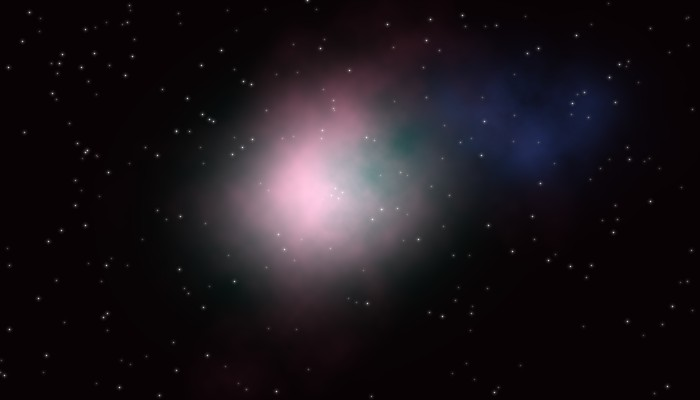
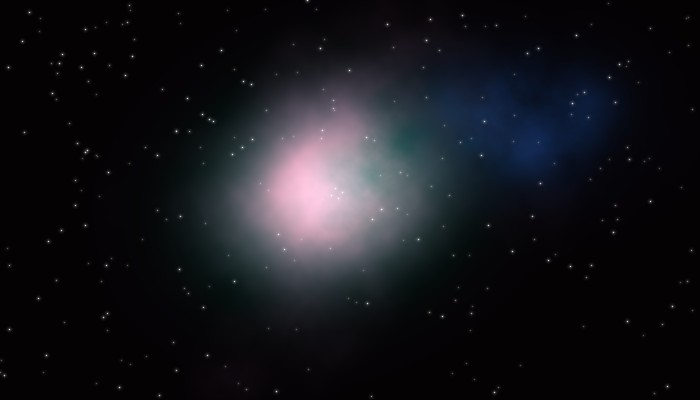
Master tabs v2: blend save/share actions, distinct Ha/OIII colors, consistent rig counts, stronger blend preview, docked nav bar, chip peek scrolling, caption follows tab, FILTER in monospace

Changed region(s): [[0.39, 0.18, 0.54, 0.3]]

diff --git a/master.html b/master.html
@@ -46,13 +46,14 @@ h1{font-size:28px;line-height:34px;font-weight:700;margin:2px 0 10px}
 .empty-card{height:210px;border:1px dashed #33404D;border-radius:16px;display:flex;flex-direction:column;align-items:center;justify-content:center;text-align:center;padding:20px 24px;gap:8px}
 .empty-card svg{width:40px;height:40px;color:#33404D}
 .empty-card h2{font-size:19px;line-height:24px}
+code{font:600 14px ui-monospace,SFMono-Regular,Menlo,Consolas,monospace;color:#E8EEF4;background:#13283A;border:1px solid #1C2B3A;border-radius:6px;padding:1px 6px;white-space:nowrap}
 .btns{display:flex;gap:10px;margin-top:14px}
 .primary{height:56px;border-radius:28px;background:#E8A05A;color:#1A1006;font:700 17px Inter,-apple-system,sans-serif;display:flex;align-items:center;justify-content:center;border:0;cursor:pointer;flex:1}
 .ghostb{height:56px;border-radius:28px;background:transparent;border:1px solid #1C2B3A;color:#5CC9B5;font:600 17px Inter,-apple-system,sans-serif;cursor:pointer;padding:0 18px}
 .seg{display:flex;background:#0B141E;border:1px solid #1C2B3A;border-radius:14px;padding:4px;margin-top:8px}
-.seg button{flex:1;height:48px;border:0;border-radius:10px;font:600 16px Inter,-apple-system,sans-serif;color:#8FA3B5;background:transparent;cursor:pointer}
+.seg button{flex:1 1 0;min-width:0;padding:0 6px;white-space:nowrap;height:48px;border:0;border-radius:10px;font:600 16px Inter,-apple-system,sans-serif;color:#8FA3B5;background:transparent;cursor:pointer}
 .seg button.on{background:#E8A05A;color:#1A1006}
-.cmp{position:relative;height:200px;border-radius:16px;overflow:hidden;margin-top:10px;background:#000;touch-action:none;cursor:ew-resize;box-shadow:0 0 28px rgba(200,110,150,.16)}
+.cmp{position:relative;height:178px;border-radius:16px;overflow:hidden;margin-top:10px;background:#000;touch-action:none;cursor:ew-resize;box-shadow:0 0 28px rgba(200,110,150,.16)}
 .cmp canvas{position:absolute;inset:0;width:100%;height:100%}
 .cmp .lbl{position:absolute;top:10px;font-size:12px;font-weight:700;background:rgba(7,16,24,.72);padding:3px 9px;border-radius:999px;pointer-events:none}
 .cmp .lbl.l{left:10px}.cmp .lbl.r{right:10px}
@@ -62,13 +63,13 @@ h1{font-size:28px;line-height:34px;font-weight:700;margin:2px 0 10px}
 .lblrow{display:flex;justify-content:space-between;align-items:baseline;margin-top:12px}
 .lbt{font-size:13px;color:#8FA3B5;font-weight:700;letter-spacing:.6px;text-transform:uppercase}
 .val{font-size:17px;font-weight:700;color:#E8A05A}
-input[type=range]{-webkit-appearance:none;appearance:none;width:100%;height:44px;background:transparent;margin-top:2px;cursor:pointer}
+input[type=range]{-webkit-appearance:none;appearance:none;width:100%;height:40px;background:transparent;margin-top:0;cursor:pointer}
 input[type=range]::-webkit-slider-runnable-track{height:8px;border-radius:4px;background:linear-gradient(90deg,#E8A05A var(--p,50%),#1C2B3A var(--p,50%))}
 input[type=range]::-webkit-slider-thumb{-webkit-appearance:none;width:32px;height:32px;border-radius:50%;background:#E8EEF4;border:3px solid #E8A05A;margin-top:-12px;box-shadow:0 2px 6px rgba(0,0,0,.5)}
 input[type=range]::-moz-range-track{height:8px;border-radius:4px;background:#1C2B3A}
 input[type=range]::-moz-range-progress{height:8px;border-radius:4px;background:#E8A05A}
 input[type=range]::-moz-range-thumb{width:26px;height:26px;border-radius:50%;background:#E8EEF4;border:3px solid #E8A05A}
-.hint{margin-top:8px;font-size:13px;color:#8FA3B5;line-height:18px;min-height:36px}
+.hint{margin-top:8px;font-size:13px;color:#8FA3B5;line-height:18px}
 .spacer{flex:1 1 auto}
 .tabs{height:83px;margin:0 -20px;border-top:1px solid #1C2B3A;display:flex;justify-content:space-around;padding-top:8px;background:#09131C}
 .tab{display:flex;flex-direction:column;align-items:center;gap:4px;font-size:12px;color:#8FA3B5;width:96px;height:60px;padding-top:4px}
@@ -79,7 +80,7 @@ input[type=range]::-moz-range-thumb{width:26px;height:26px;border-radius:50%;bac
 </style></head>
 <body><div class="ph" id="ph">
 <div class="sb"><span>9:58</span><span>●●● ▮</span></div>
-<div class="top"><span class="back">‹ Live stack</span><span class="tr"><span class="stepn">Master</span><span class="menu" aria-label="Party menu">•••</span></span></div>
+<div class="top"><span class="back">‹ Live stack</span><span class="tr"><span class="menu" aria-label="Party menu">•••</span></span></div>
 <div class="party">Penobscot Bay Star Party</div>
 <h1>Master · M42</h1>
 <div class="strip" id="strip" role="tablist" aria-label="Master filters"></div>
@@ -109,7 +110,7 @@ input[type=range]::-moz-range-thumb{width:26px;height:26px;border-radius:50%;bac
     <div class="stat"><b>0m</b><span>INTEGRATION</span></div>
     <div class="stat"><b>0</b><span>RIGS</span></div>
   </div>
-  <p class="small note">Subs are grouped by the FILTER card in their FITS header. One-shot-color subs go to Color.</p>
+  <p class="small note">Subs are grouped by the <code>FILTER</code> card in their FITS header. One-shot-color subs go to Color.</p>
 </div>
 
 <!-- blend -->
@@ -123,27 +124,28 @@ input[type=range]::-moz-range-thumb{width:26px;height:26px;border-radius:50%;bac
     <span class="lbl l">Before</span><span class="lbl r">After</span><span class="sample">Sample data</span>
     <span class="div" id="div"></span><span class="knob" id="knob">‹›</span>
   </div>
-  <div class="lblrow"><span class="lbt">Strength</span><span class="val" id="sv">50%</span></div>
+  <div class="lblrow" style="margin-top:10px"><span class="lbt">Strength</span><span class="val" id="sv">50%</span></div>
   <input type="range" id="str" min="0" max="100" step="1" value="50" aria-label="Blend strength">
   <div class="lblrow" style="margin-top:2px"><span class="lbt">Blend mode</span><span class="small" id="base">Into the Color master</span></div>
   <div class="seg" id="modes"></div>
   <p class="hint" id="hint"></p>
+  <div class="btns"><button class="primary" id="save" type="button">Save as HaRGB</button><button class="ghostb" id="share2" type="button">Share</button></div>
 </div>
 
 <div class="spacer"></div>
 <div class="tabs"><div class="tab on"><svg viewBox="0 0 24 24" fill="none" stroke="currentColor" stroke-width="2" stroke-linecap="round" stroke-linejoin="round"><path d="M20 14.5A8 8 0 1 1 9.5 4a6.5 6.5 0 0 0 10.5 10.5z"/><path d="M18 2.5v4M16 4.5h4"/></svg>Tonight</div><div class="tab"><svg viewBox="0 0 24 24" fill="none" stroke="currentColor" stroke-width="2" stroke-linecap="round" stroke-linejoin="round"><path d="M3.5 13.5 16 7l2.2 4.2-12.5 6.5z"/><path d="M18.2 6l1.6-.8 1.4 2.7-1.6.8"/><path d="M11 15.6 8 21.5M12.6 14.8 16 21.5"/></svg>Gear</div><div class="tab"><svg viewBox="0 0 24 24" fill="none" stroke="currentColor" stroke-width="2" stroke-linecap="round" stroke-linejoin="round"><circle cx="12" cy="8" r="4"/><path d="M4 21c0-4.2 3.6-7 8-7s8 2.8 8 7"/></svg>Profile</div></div>
-<div class="toast" id="toast">Prototype · nothing is saved or downloaded</div>
+<div class="toast" id="toast">Prototype · saves a new FITS; nothing is saved here</div>
 </div>
 <script>
 // Mock data for the prototype. Real counts come from the party stack (GET /api/stacks/{id}/masters).
 const TABS = [
-  {k:"color", label:"Color", accent:"#E8A05A", subs:15, sec:2700, rigs:["JB","AD","BA","CY"], note:"One-shot-color subs (ASI2600MC and friends), debayered and stacked. Linear 32-bit FITS on the shared grid."},
-  {k:"L", label:"L", accent:"#E8EEF4", subs:24, sec:4320, rigs:["DM"], note:"Mono subs shot through L (luminance). Grouped by FILTER = L / Lum."},
+  {k:"color", label:"Color", accent:"#E8A05A", subs:15, sec:2700, rigs:["JB","AD","BA","CY","DM","EL"], note:"The same master as Live stack (6 rigs · 15 subs): one-shot-color subs, debayered and stacked. Mono filters have their own tabs."},
+  {k:"L", label:"L", accent:"#E8EEF4", subs:24, sec:4320, rigs:["DM"], note:"Mono subs shot through L (luminance) on Dana's second rig. Grouped by FILTER = L / Lum."},
   {k:"R", label:"R", accent:"#F2555A", subs:10, sec:1800, rigs:["DM"], note:"Mono subs shot through the red filter."},
-  {k:"G", label:"G", accent:"#5CC9B5", subs:10, sec:1800, rigs:["DM"], note:"Mono subs shot through the green filter."},
-  {k:"B", label:"B", accent:"#7FB8FF", subs:9, sec:1620, rigs:["DM"], note:"Mono subs shot through the blue filter."},
-  {k:"Ha", label:"Ha", accent:"#FF6B6B", subs:12, sec:3600, rigs:["AD","EL"], note:"Mono subs shot through Ha (7 nm and 3 nm). Picks up the faint outer hydrogen the color subs miss."},
-  {k:"OIII", label:"OIII", accent:"#4FD1E0", subs:8, sec:2400, rigs:["EL"], note:"Mono subs shot through OIII. Brightest in the core."},
+  {k:"G", label:"G", accent:"#62C46B", subs:10, sec:1800, rigs:["DM"], note:"Mono subs shot through the green filter."},
+  {k:"B", label:"B", accent:"#6C7CFF", subs:9, sec:1620, rigs:["DM"], note:"Mono subs shot through the blue filter."},
+  {k:"Ha", label:"Ha", accent:"#D21F6E", subs:12, sec:3600, rigs:["AD","EL"], note:"Mono subs shot through Ha (7 nm and 3 nm). Picks up the faint outer hydrogen the color subs miss."},
+  {k:"OIII", label:"OIII", accent:"#1FC8F0", subs:8, sec:2400, rigs:["EL"], note:"Mono subs shot through OIII. Brightest in the core."},
   {k:"SII", label:"SII", accent:"#F0B85A", subs:0, sec:0, rigs:[], note:""},
 ];
 const MODES = {
@@ -151,7 +153,7 @@ const MODES = {
      {k:"max",label:"Max",hint:"Max keeps whichever is brighter, red or Ha. Strongest nebula, can look punchy."},
      {k:"add",label:"Add",hint:"Add puts strength × Ha signal on top of red (sky removed first). Like R + k·Ha in PixelMath."}],
   L:[{k:"lighten",label:"Lighten",hint:"Lighten keeps the brighter of luminance and Ha. Color stays the same; detail comes from Ha."},
-     {k:"add",label:"Weighted add",hint:"Weighted add puts strength × Ha signal into luminance (sky removed first). Hue is kept."},
+     {k:"add",label:"Weighted",hint:"Weighted add puts strength × Ha signal into luminance (sky removed first). Hue is kept."},
      {k:"screen",label:"Screen",hint:"Screen lifts luminance softly where Ha is bright and never clips."}],
 };
 const $ = (id) => document.getElementById(id);
@@ -171,7 +173,8 @@ function show(k, user) {
   [...strip.children].forEach((c) => {
     const on = c.dataset.k === k; c.classList.toggle("on", on); c.setAttribute("aria-selected", on);
     if (on) { // keep the active chip in view without scrolling the page
-      const l = c.offsetLeft - 20, r = c.offsetLeft + c.offsetWidth + 20 - strip.clientWidth;
+      const PEEK = 44; // keep a peek of the neighbouring chips
+      const l = c.offsetLeft - PEEK, r = c.offsetLeft + c.offsetWidth + PEEK - strip.clientWidth;
       const want = strip.scrollLeft > l ? l : (strip.scrollLeft < r ? r : strip.scrollLeft);
       strip.scrollTo({ left: Math.max(0, want), behavior: user ? "smooth" : "auto" });
     }
@@ -190,11 +193,28 @@ function show(k, user) {
     $("dl").textContent = `Download ${t.label} FITS`;
   } else if (t) {
     $("eTitle").textContent = `No subs yet for ${t.label}`;
-    $("eBody").textContent = `Nobody at this party has shot ${t.label} yet. Mono subs with FILTER = ${t.label} will stack here.`;
+    $("eBody").innerHTML = `Nobody at this party has shot ${t.label} yet. Mono subs with <code>FILTER = ${t.label}</code> will stack here.`;
   }
   if (k === "blend") renderBlend();
-  history.replaceState(null, "", "#tab=" + k + (k === "blend" ? "&target=" + state.target : ""));
+  syncHash(k);
+  notify(k);
 }
+function syncHash(k) {
+  history.replaceState(null, "", "#tab=" + k + (k === "blend" ? `&target=${state.target}&mode=${state.mode}&strength=${state.strength}` : ""));
+}
+function notify(k) {
+  if (window.parent === window) return;
+  const t = TABS.find((x) => x.k === k);
+  window.parent.postMessage({ type: "st-master-tab", tab: k, target: state.target,
+    label: k === "blend" ? (state.target === "R" ? "Blend · Ha to Red" : "Blend · Ha to Lum") : `Master tabs · ${t.label}`,
+    caption: k === "blend" ? CAPS.blend[state.target] : (t.subs ? CAPS.chan(t) : CAPS.empty(t)) }, "*");
+}
+const CAPS = {
+  chan: (t) => `${t.label === "Color" ? "Color master (the same one Live stack shows)" : t.label + " master from the mono rigs"}: ${t.subs} subs, ${fmt(t.sec)} of integration, ${t.rigs.length} ${t.rigs.length === 1 ? "rig" : "rigs"}. Subs are grouped by the FITS FILTER header; one-shot-color subs go to Color. Sample data.`,
+  empty: (t) => `Nobody has shot ${t.label} yet, so the tab shows an empty state. Empty filter chips are dashed so they read at a glance.`,
+  blend: { R: "Blend Ha into the red channel of the Color master. Set the strength (0–100%), pick Screen, Max or Add, drag across the preview to compare, then save it as a new HaRGB FITS. Sample data.",
+           L: "Blend Ha into luminance with Lighten, Weighted add or Screen. Hue is kept; only brightness and detail come from Ha. The masters are never changed; the blend is saved as its own FITS. Sample data." },
+};
 // ---------------------------------------------------------------- blend (mock data, canvas)
 const state = { target: "R", mode: "screen", strength: 50, split: 0.5 };
 const imgs = {};
@@ -221,10 +241,11 @@ function renderBlend() {
   updateControls();
   if (!pix) { prep().then(renderBlend); return; }
   const { c, h, medR, medHa } = pix, s = state.strength / 100;
+  const HA_GAIN = 2.0; // sample data: the Ha master is stretched harder than the OSC, like a real Ha master
   const out = ctx.createImageData(700, 400), o = out.data;
   const medLum = (medR + median(c, 4, 1) + median(c, 4, 2)) / 3;
   for (let i = 0; i < c.length; i += 4) {
-    const r = c[i]/255, g = c[i+1]/255, b = c[i+2]/255, ha = h[i]/255;
+    const r = c[i]/255, g = c[i+1]/255, b = c[i+2]/255, ha = medHa + Math.max(0, h[i]/255 - medHa) * HA_GAIN;
     let R = r, G = g, B = b;
     if (state.target === "R") R = mix(r, ha, s, state.mode, medR, medHa);
     else {
@@ -250,28 +271,35 @@ function updateControls() {
   const modes = $("modes"); modes.innerHTML = "";
   MODES[state.target].forEach((m) => {
     const b = document.createElement("button"); b.type = "button"; b.textContent = m.label; b.className = m.k === state.mode ? "on" : "";
-    b.onclick = () => { state.mode = m.k; renderBlend(); }; modes.appendChild(b);
+    b.onclick = () => { state.mode = m.k; renderBlend(); syncHash("blend"); }; modes.appendChild(b);
   });
   $("hint").textContent = MODES[state.target].find((m) => m.k === state.mode).hint;
   $("base").textContent = state.target === "R" ? "Into red of the Color master" : "Into luminance of the Color master";
+  $("save").textContent = state.target === "R" ? "Save as HaRGB" : "Save as Ha-L RGB";
   $("sv").textContent = state.strength + "%";
   $("str").value = state.strength; $("str").style.setProperty("--p", state.strength + "%");
 }
-document.querySelectorAll("[data-target]").forEach((b) => b.onclick = () => { state.target = b.dataset.target; state.mode = MODES[state.target][0].k; renderBlend(); history.replaceState(null, "", "#tab=blend&target=" + state.target); });
+document.querySelectorAll("[data-target]").forEach((b) => b.onclick = () => { state.target = b.dataset.target; state.mode = MODES[state.target][0].k; renderBlend(); syncHash("blend"); notify("blend"); });
 let raf = 0;
 $("str").addEventListener("input", (e) => { state.strength = Number(e.target.value); $("sv").textContent = state.strength + "%"; e.target.style.setProperty("--p", state.strength + "%"); cancelAnimationFrame(raf); raf = requestAnimationFrame(renderBlend); });
+$("str").addEventListener("change", () => syncHash("blend"));
 const cmp = $("cmp");
 function drag(e) { const r = cmp.getBoundingClientRect(); state.split = Math.min(1, Math.max(0, (e.clientX - r.left) / r.width)); draw(); }
 cmp.addEventListener("pointerdown", (e) => { cmp.setPointerCapture(e.pointerId); drag(e); });
 cmp.addEventListener("pointermove", (e) => { if (cmp.hasPointerCapture(e.pointerId)) drag(e); });
 function toast() { const t = $("toast"); t.classList.add("show"); clearTimeout(toast.t); toast.t = setTimeout(() => t.classList.remove("show"), 1600); }
-$("dl").onclick = toast; $("share").onclick = toast;
+$("dl").onclick = toast; $("share").onclick = toast; $("save").onclick = toast; $("share2").onclick = toast;
 // deep links: #tab=Ha, #tab=blend&target=L&mode=add&strength=70
-const q = new URLSearchParams(location.hash.slice(1));
-if (q.get("target") === "L") { state.target = "L"; state.mode = "lighten"; }
-if (q.get("mode") && MODES[state.target].some((m) => m.k === q.get("mode"))) state.mode = q.get("mode");
-if (q.get("strength")) state.strength = Math.min(100, Math.max(0, Number(q.get("strength")) || 0));
-const start = q.get("tab");
-show([...TABS.map((t) => t.k), "blend"].includes(start) ? start : "color", false);
+function fromHash() {
+  const q = new URLSearchParams(location.hash.slice(1));
+  state.target = q.get("target") === "L" ? "L" : "R";
+  state.mode = MODES[state.target][0].k;
+  if (q.get("mode") && MODES[state.target].some((m) => m.k === q.get("mode"))) state.mode = q.get("mode");
+  state.strength = q.get("strength") ? Math.min(100, Math.max(0, Number(q.get("strength")) || 0)) : 50;
+  const start = q.get("tab");
+  show([...TABS.map((t) => t.k), "blend"].includes(start) ? start : "color", false);
+}
+window.addEventListener("hashchange", fromHash);
+fromHash();
 </script>
 </body></html>

diff --git a/index.html b/index.html
@@ -26,7 +26,7 @@
       font-family: -apple-system, BlinkMacSystemFont, "Segoe UI", sans-serif;
     }
     body {
-      padding: 16px 16px 108px;
+      padding: 16px 16px 32px;
       max-width: 480px;
       margin: 0 auto;
     }
@@ -106,13 +106,8 @@
       font-size: 1rem;
     }
     .bar {
-      position: fixed;
-      left: 0;
-      right: 0;
-      bottom: 0;
-      padding: 12px 16px calc(12px + env(safe-area-inset-bottom));
-      background: rgba(11,16,32,0.96);
-      border-top: 1px solid var(--line);
+      max-width: 390px;
+      margin: 0 auto 16px;
       display: flex;
       gap: 10px;
       flex-wrap: wrap;
@@ -137,12 +132,12 @@
   <h2 id="title"></h2>
   <p class="caption" id="caption"></p>
   <div class="phone" id="phone"><img id="screen" alt="" /><iframe id="live" title="Interactive screen" hidden></iframe></div>
-  <label for="list">Screen list</label>
-  <select id="list"></select>
   <div class="bar">
     <button class="back" id="back" type="button">Back</button>
     <button class="next" id="next" type="button">Next</button>
   </div>
+  <label for="list">Screen list</label>
+  <select id="list"></select>
   <script>
     const SCREENS = [
       {"id": "01_welcome", "title": "Welcome", "step": "Account", "caption": "Get started is the one primary action. I already have an account is the quiet alternative."},
@@ -206,7 +201,9 @@
         img.hidden = true;
         img.removeAttribute("src");
         live.hidden = false;
-        if (live.dataset.src !== s.live) { live.src = s.live; live.dataset.src = s.live; }
+        const loaded = live.dataset.src && live.contentWindow && live.contentWindow.location.pathname.endsWith(s.live.split("#")[0]);
+        if (loaded) live.contentWindow.location.hash = s.live.split("#")[1];
+        else { live.src = s.live; live.dataset.src = s.live; }
         live.title = "Interactive Star Party screen: " + s.title;
       } else {
         live.hidden = true;
@@ -218,7 +215,7 @@
       list.value = String(index);
       back.disabled = index === 0;
       next.disabled = index === SCREENS.length - 1;
-      window.scrollTo({ top: 0, behavior: "instant" });
+      if (!s.live) window.scrollTo({ top: 0, behavior: "instant" });
     }
     function go(delta) {
       const nextIndex = index + delta;
@@ -246,6 +243,14 @@
         go(dx < 0 ? 1 : -1);
       }
     }, { passive: true });
+    window.addEventListener("message", (e) => {
+      const d = e.data;
+      if (!d || d.type !== "st-master-tab" || e.source !== live.contentWindow || !SCREENS[index].live) return;
+      const match = SCREENS.findIndex((s) => s.live && (s.live === "master.html#tab=" + d.tab || (d.tab === "blend" && s.live === "master.html#tab=blend&target=" + d.target)));
+      if (match >= 0) { index = match; list.value = String(index); step.textContent = (index + 1) + " of " + SCREENS.length + " · " + SCREENS[index].step; back.disabled = index === 0; next.disabled = index === SCREENS.length - 1; }
+      title.textContent = d.label;
+      caption.textContent = d.caption;
+    });
     const hashId = location.hash.slice(1);
     const hashIndex = SCREENS.findIndex((s) => s.id === hashId || (hashId === "master" && s.id === "15a_master_color"));
     if (hashIndex >= 0) index = hashIndex;
